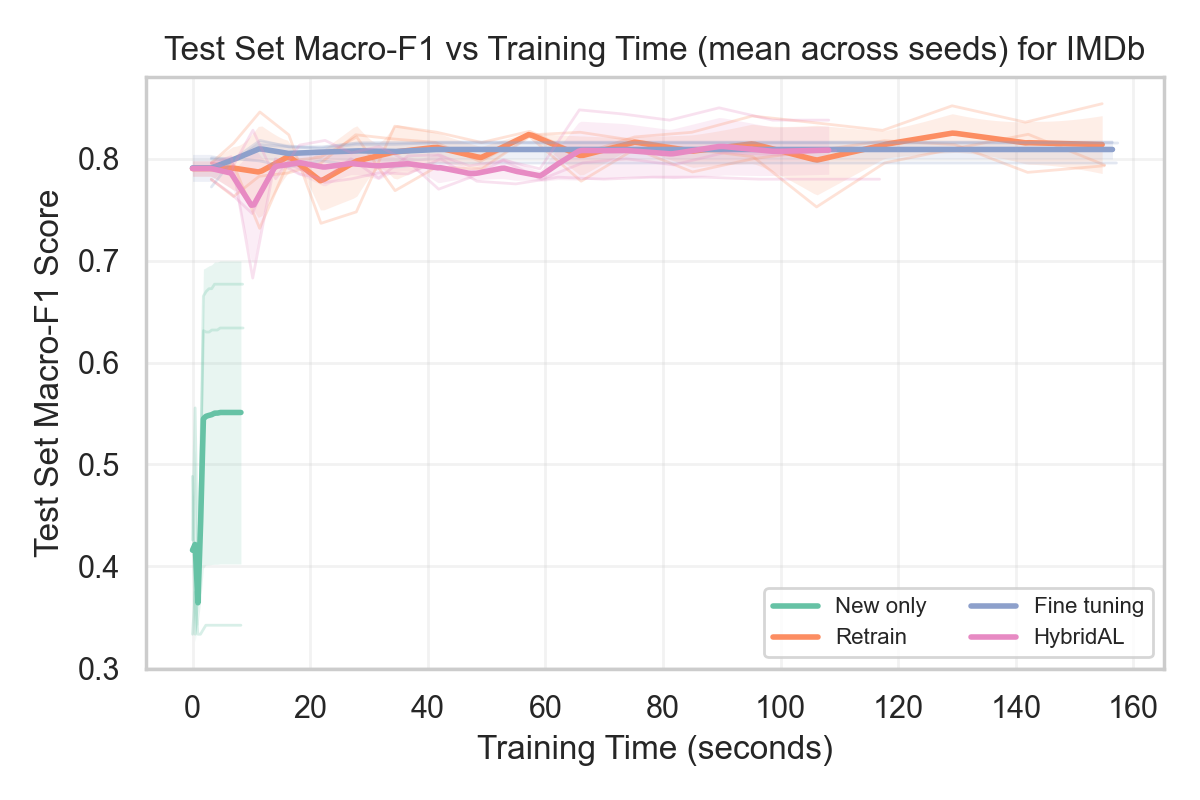
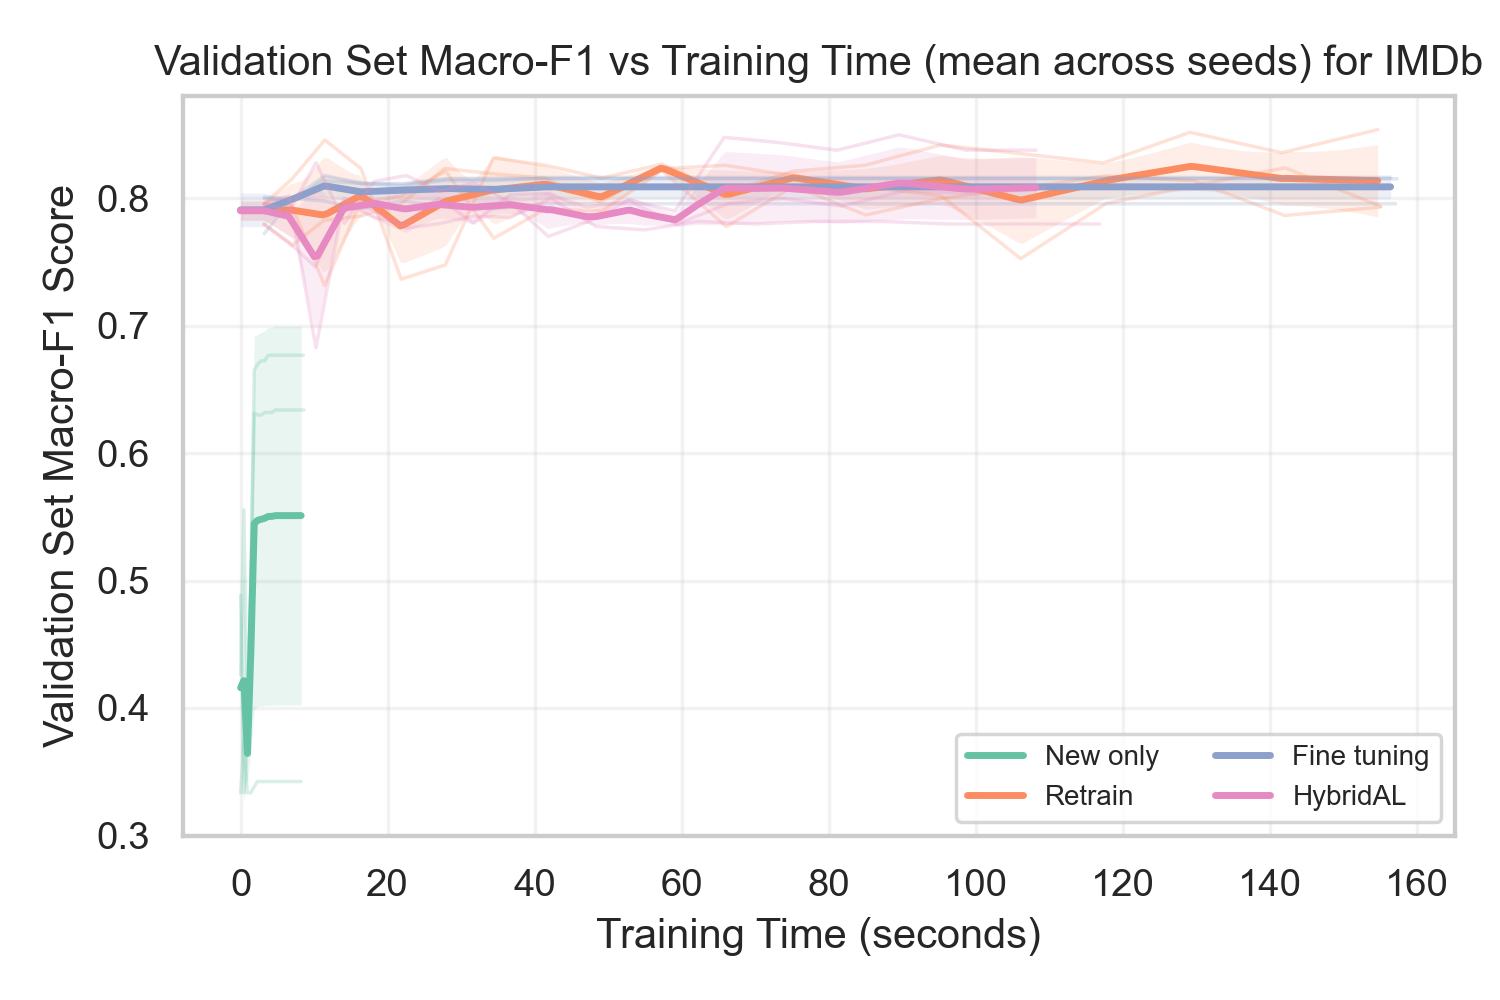
Minor changes in figure_plotter.py

diff --git a/figure_plotter.py b/figure_plotter.py
@@ -123,9 +123,8 @@ def get_summary_table(experiments_df: pd.DataFrame, hybrid_hyper: dict):
 def plot_f1_vs_time_avg(
         experiments_df: pd.DataFrame,
         hybrid_hyper: dict,
-        dataset: str,
-        save_path: str = None,
-        cmap: str = "tab20b",
+        save_dir_path: str = None,
+        cmap: str = "Set2",
         n_grid: int = 250,
         show_individual: bool = False
 ):
@@ -137,86 +136,81 @@ def plot_f1_vs_time_avg(
     - experiments_df: DataFrame containing experiment results, in the format of get_experiments_df().
     - hybrid_hyper: Dictionary with hyperparameters for the best DeltaF1Strategy
     (keys: 'epsilon', 'k', 'validation_fraction').
-    - dataset: The dataset to plot its strategies results ('agnews', 'imdb', 'jigsaw').
-    - save_path: Optional path to save the plot image. If None, the plot is just shown.
+    - save_dir_path: Optional directory path to save the plot images. If None, the plots are just shown.
     - cmap: Colormap name for strategies.
     - n_grid: Number of points in the common time grid for interpolation.
     - show_individual: Whether to plot faint individual seed F1 curves in the background.
     """
 
-    plt.figure(figsize=figsize)
-    color_map = plt.get_cmap(cmap)
-    strategies = list(strategy_names.keys())
+    for dataset in experiments_df['dataset'].unique():
+        plt.figure(figsize=figsize)
+        color_map = plt.get_cmap(cmap)
+        strategies = list(strategy_names.keys())
 
-    for s_i, strategy in enumerate(strategies):
-        # Gather the time points and F1 scores for each seed
-        seed_curves = []
-        for seed in sorted(experiments_df['seed'].unique()):
-            is_delta_f1 = (strategy == 'DeltaF1Strategy')
+        for s_i, strategy in enumerate(strategies):
+            # Gather the time points and F1 scores for each seed
+            seed_curves = []
+            for seed in sorted(experiments_df['seed'].unique()):
+                is_delta_f1 = (strategy == 'DeltaF1Strategy')
 
-            row = filter_experiments_df(
-                experiments_df, dataset=dataset,
-                strategy=strategy,
-                seed=seed,
-                epsilon=hybrid_hyper.get['epsilon'] if is_delta_f1 else None,
-                k=hybrid_hyper['k'] if is_delta_f1 else None,
-                validation_fraction=hybrid_hyper['validation_fraction'] if is_delta_f1 else None
-            )
+                row = filter_experiments_df(
+                    experiments_df, dataset=dataset,
+                    strategy=strategy,
+                    seed=seed,
+                    epsilon=hybrid_hyper['epsilon'] if is_delta_f1 else None,
+                    k=hybrid_hyper['k'] if is_delta_f1 else None,
+                    validation_fraction=hybrid_hyper['validation_fraction'] if is_delta_f1 else None
+                )
 
-            # Build cumulative time curve
-            round_val_stats = row['round_val_stats'].values[0]
-            times, f1s = [], []
-            t = 0.0
-            for r in round_val_stats:
-                t += float(r['training_time'])
-                times.append(t)
-                f1s.append(float(r['f1_score']))
+                # Build cumulative time curve
+                round_val_stats = row['round_val_stats'].values[0]
+                times, f1s = [], []
+                t = 0.0
+                for r in round_val_stats:
+                    t += float(r['training_time'])
+                    times.append(t)
+                    f1s.append(float(r['f1_score']))
 
-            if len(times) >= 2:
-                seed_curves.append((times, f1s))
+                if len(times) >= 2:
+                    seed_curves.append((times, f1s))
 
-        if len(seed_curves) == 0:
-            continue
+            # Set the common time grid to be between 0 and the minimum max time across seeds
+            max_times = [curve[0][-1] for curve in seed_curves]
+            t_max_common = np.min(max_times)
 
-        # Set the common time grid to be between 0 and the minimum max time across seeds
-        max_times = [curve[0][-1] for curve in seed_curves]
-        t_max_common = np.min(max_times)
-        if t_max_common <= 0:
-            continue
+            grid = np.linspace(0.0, t_max_common, n_grid)
 
-        grid = np.linspace(0.0, t_max_common, n_grid)
+            # Interpolate each seed's F1 scores onto the common time grid
+            interp_f1s = []
+            for times, f1s in seed_curves:
+                f_on_grid = np.interp(grid, times, f1s)
+                interp_f1s.append(f_on_grid)
 
-        # Interpolate each seed's F1 scores onto the common time grid
-        interp_f1s = []
-        for times, f1s in seed_curves:
-            f_on_grid = np.interp(grid, times, f1s)
-            interp_f1s.append(f_on_grid)
+                if show_individual:
+                    plt.plot(times, f1s, color=color_map(s_i / len(color_map.colors)), alpha=0.25, lw=1)
 
-            if show_individual:
-                plt.plot(times, f1s, color=color_map(s_i / len(color_map.colors)), alpha=0.25, lw=1)
+            interp_f1s = np.vstack(interp_f1s)
+            mean_f1 = interp_f1s.mean(axis=0)
 
-        interp_f1s = np.vstack(interp_f1s)
-        mean_f1 = interp_f1s.mean(axis=0)
+            # Calculate standard deviation for the band
+            std = interp_f1s.std(axis=0)
+            lower, upper = mean_f1 - std, mean_f1 + std
 
-        # Calculate standard deviation for the band
-        std = interp_f1s.std(axis=0)
-        lower, upper = mean_f1 - std, mean_f1 + std
+            # Plot mean and band per strategy
+            label = strategy_names[strategy]
+            color = color_map(s_i / len(color_map.colors))
+            plt.plot(grid, mean_f1, label=label, color=color, lw=2.0)
+            plt.fill_between(grid, lower, upper, color=color, alpha=0.15, linewidth=0)
 
-        # Plot mean and band per strategy
-        label = strategy_names[strategy]
-        color = color_map(s_i / len(color_map.colors))
-        plt.plot(grid, mean_f1, label=label, color=color, lw=2.0)
-        plt.fill_between(grid, lower, upper, color=color, alpha=0.15, linewidth=0)
-
-    plt.xlabel('Training Time (seconds)')
-    plt.ylabel('Test Set Macro-F1 Score')
-    plt.title(f'Test Set Macro-F1 vs Training Time (mean across seeds) for {dataset_names[dataset]}')
-    plt.grid(True, alpha=0.25)
-    plt.legend(ncol=2, fontsize=8)
-    plt.tight_layout()
-    if save_path:
-        plt.savefig(save_path, dpi=dpi)
-    plt.show()
+        plt.xlabel('Training Time (seconds)')
+        plt.ylabel('Validation Set Macro-F1 Score')
+        plt.title(f'Validation Set Macro-F1 vs Training Time (mean across seeds) for {dataset_names[dataset]}')
+        plt.grid(True, alpha=0.25)
+        plt.legend(ncol=2, fontsize=8)
+        plt.tight_layout()
+        if save_dir_path:
+            plt.savefig(os.path.join(save_dir_path, f'f1_vs_time_{dataset}.png'), dpi=dpi)
+        plt.show()
 
 
 def plot_hybrid_hyper_variations(experiments_df: pd.DataFrame, best_hybrid_hyper: dict, save_dir_path: str = None,
@@ -232,7 +226,7 @@ def plot_hybrid_hyper_variations(experiments_df: pd.DataFrame, best_hybrid_hyper
     """
     hyperparams_names = {"epsilon": r"$\varepsilon$",
                          "k": r"$k$",
-                         "validation_fraction": "validation_fraction"}
+                         "validation_fraction": r"$c$"}
 
     for param in best_hybrid_hyper.keys():
         plt.figure(figsize=figsize)
@@ -393,7 +387,7 @@ def plot_f1_vs_round_switch(experiments_df: pd.DataFrame, best_hybrid_hyper: dic
     - save_dir_path: Directory path to save the generated plots. If None, plots are just shown.
     """
 
-    for dataset in dataset_names.keys():
+    for dataset in experiments_df['dataset'].unique():
         plt.figure(figsize=figsize)
         cmap = ListedColormap(['#9195F6', '#FB88B4', '#79d955'])
 
@@ -423,9 +417,9 @@ def plot_f1_vs_round_switch(experiments_df: pd.DataFrame, best_hybrid_hyper: dic
                         label=f"Switch Round (Seed {j})")
 
         plt.xlabel('Round Number')
-        plt.ylabel('Test Set Macro-F1 Score')
+        plt.ylabel('Validation Set Macro-F1 Score')
         plt.xticks(range(1, max(total_rounds) + 1), fontsize=10)
-        plt.title(f'Test Set Macro-F1 Score vs Round Number (HybridAL) - {dataset_names[
+        plt.title(f'Validation Set Macro-F1 Score vs Round Number (HybridAL) - {dataset_names[
             dataset]}')
         plt.legend(fontsize='x-small')
         plt.grid(alpha=0.4)
